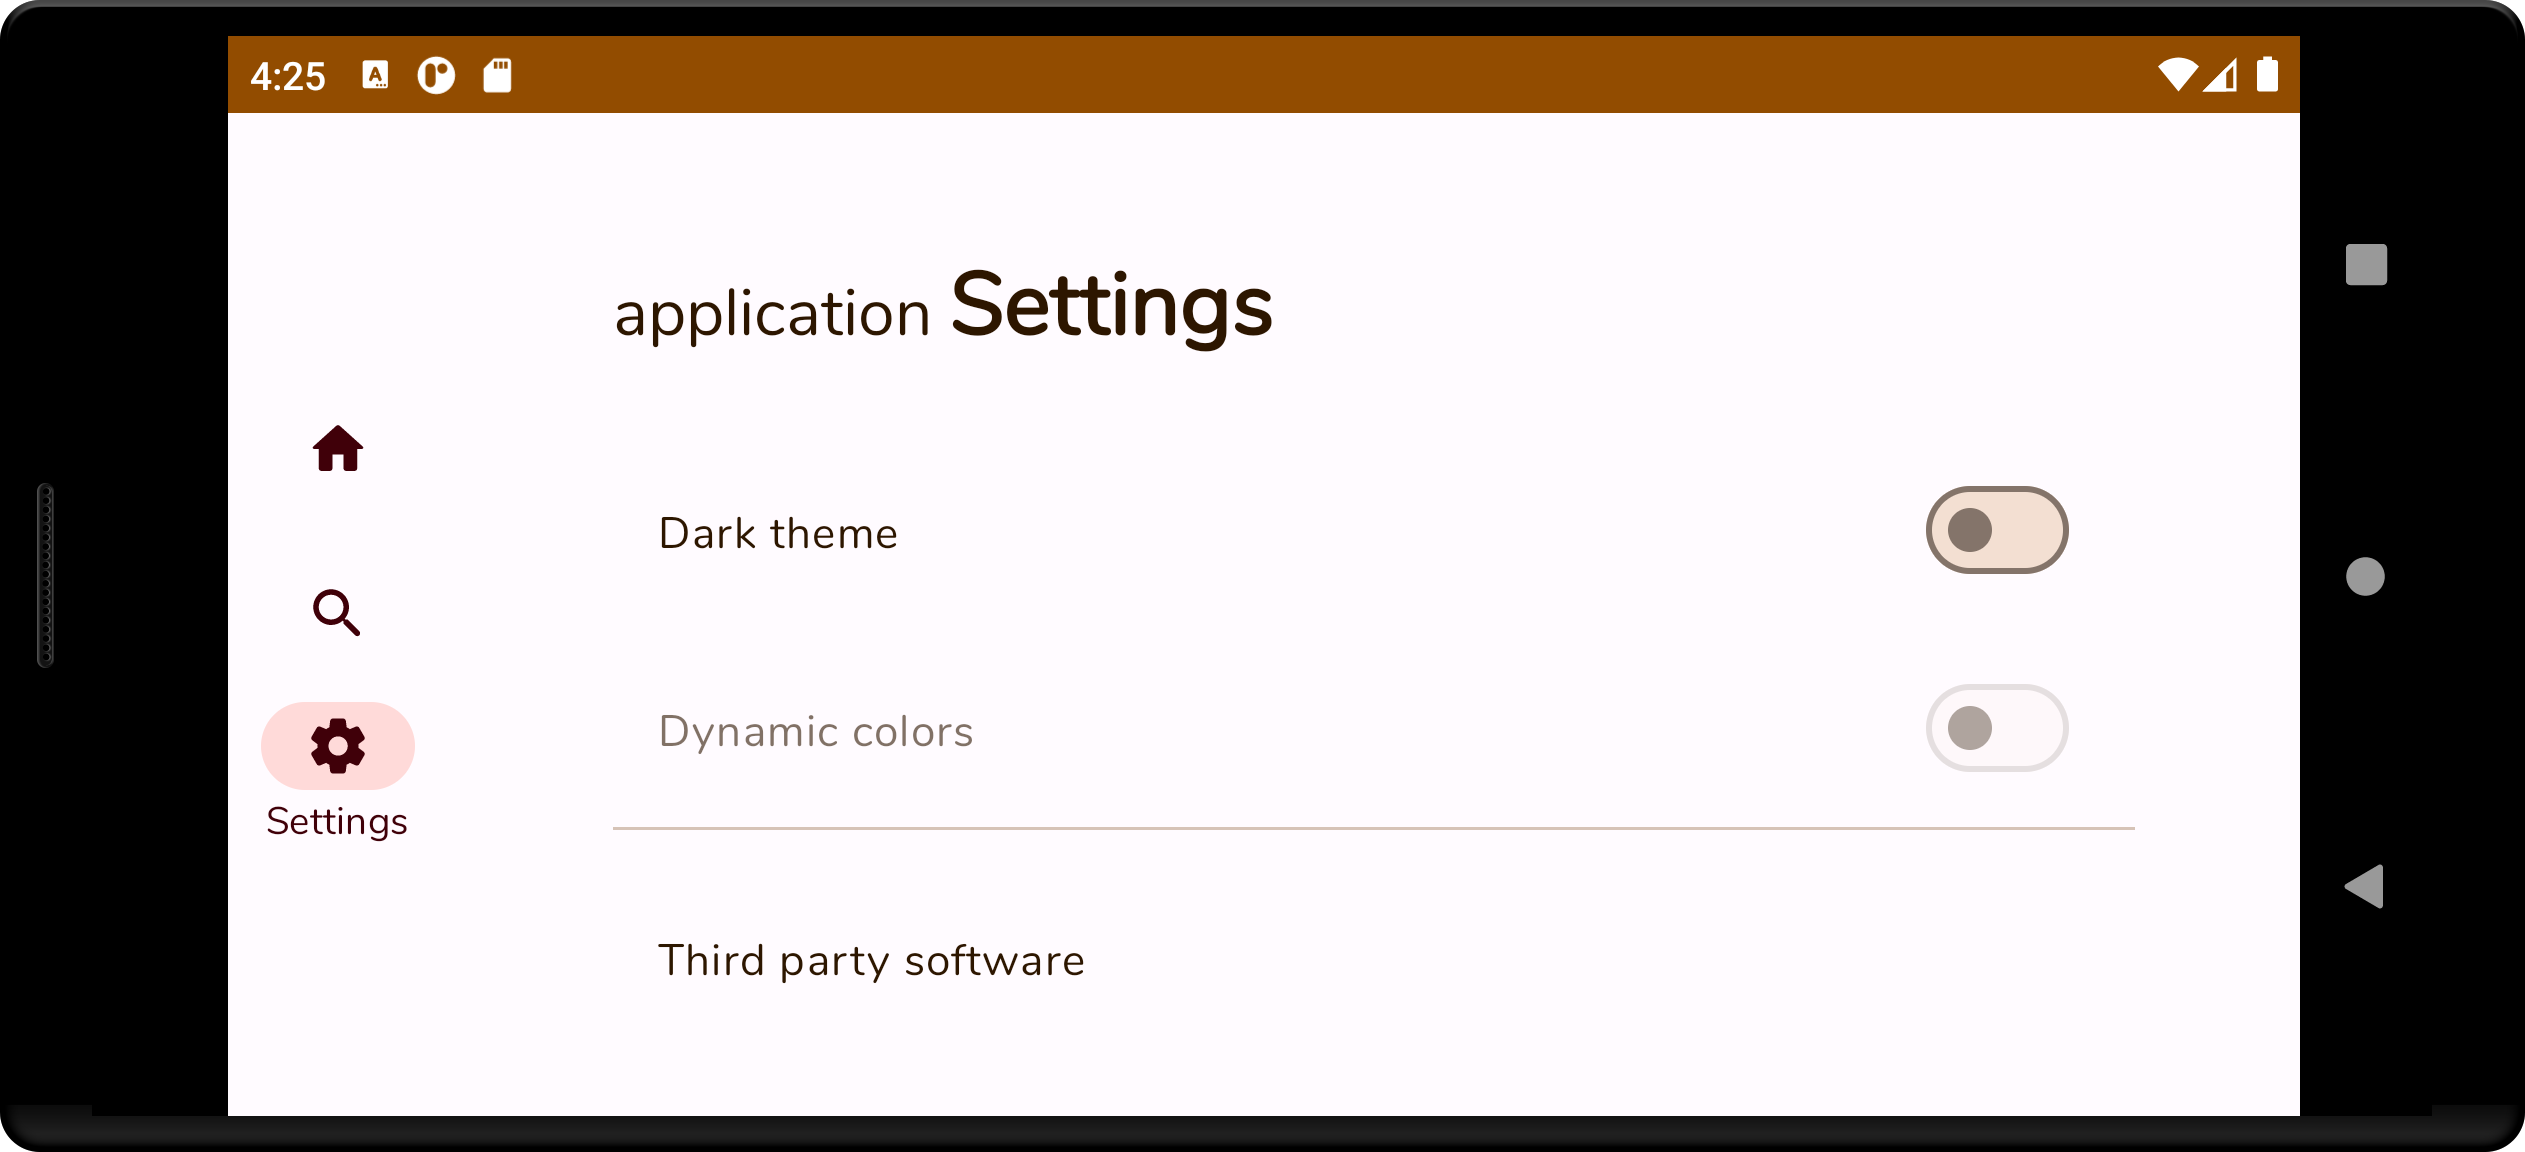
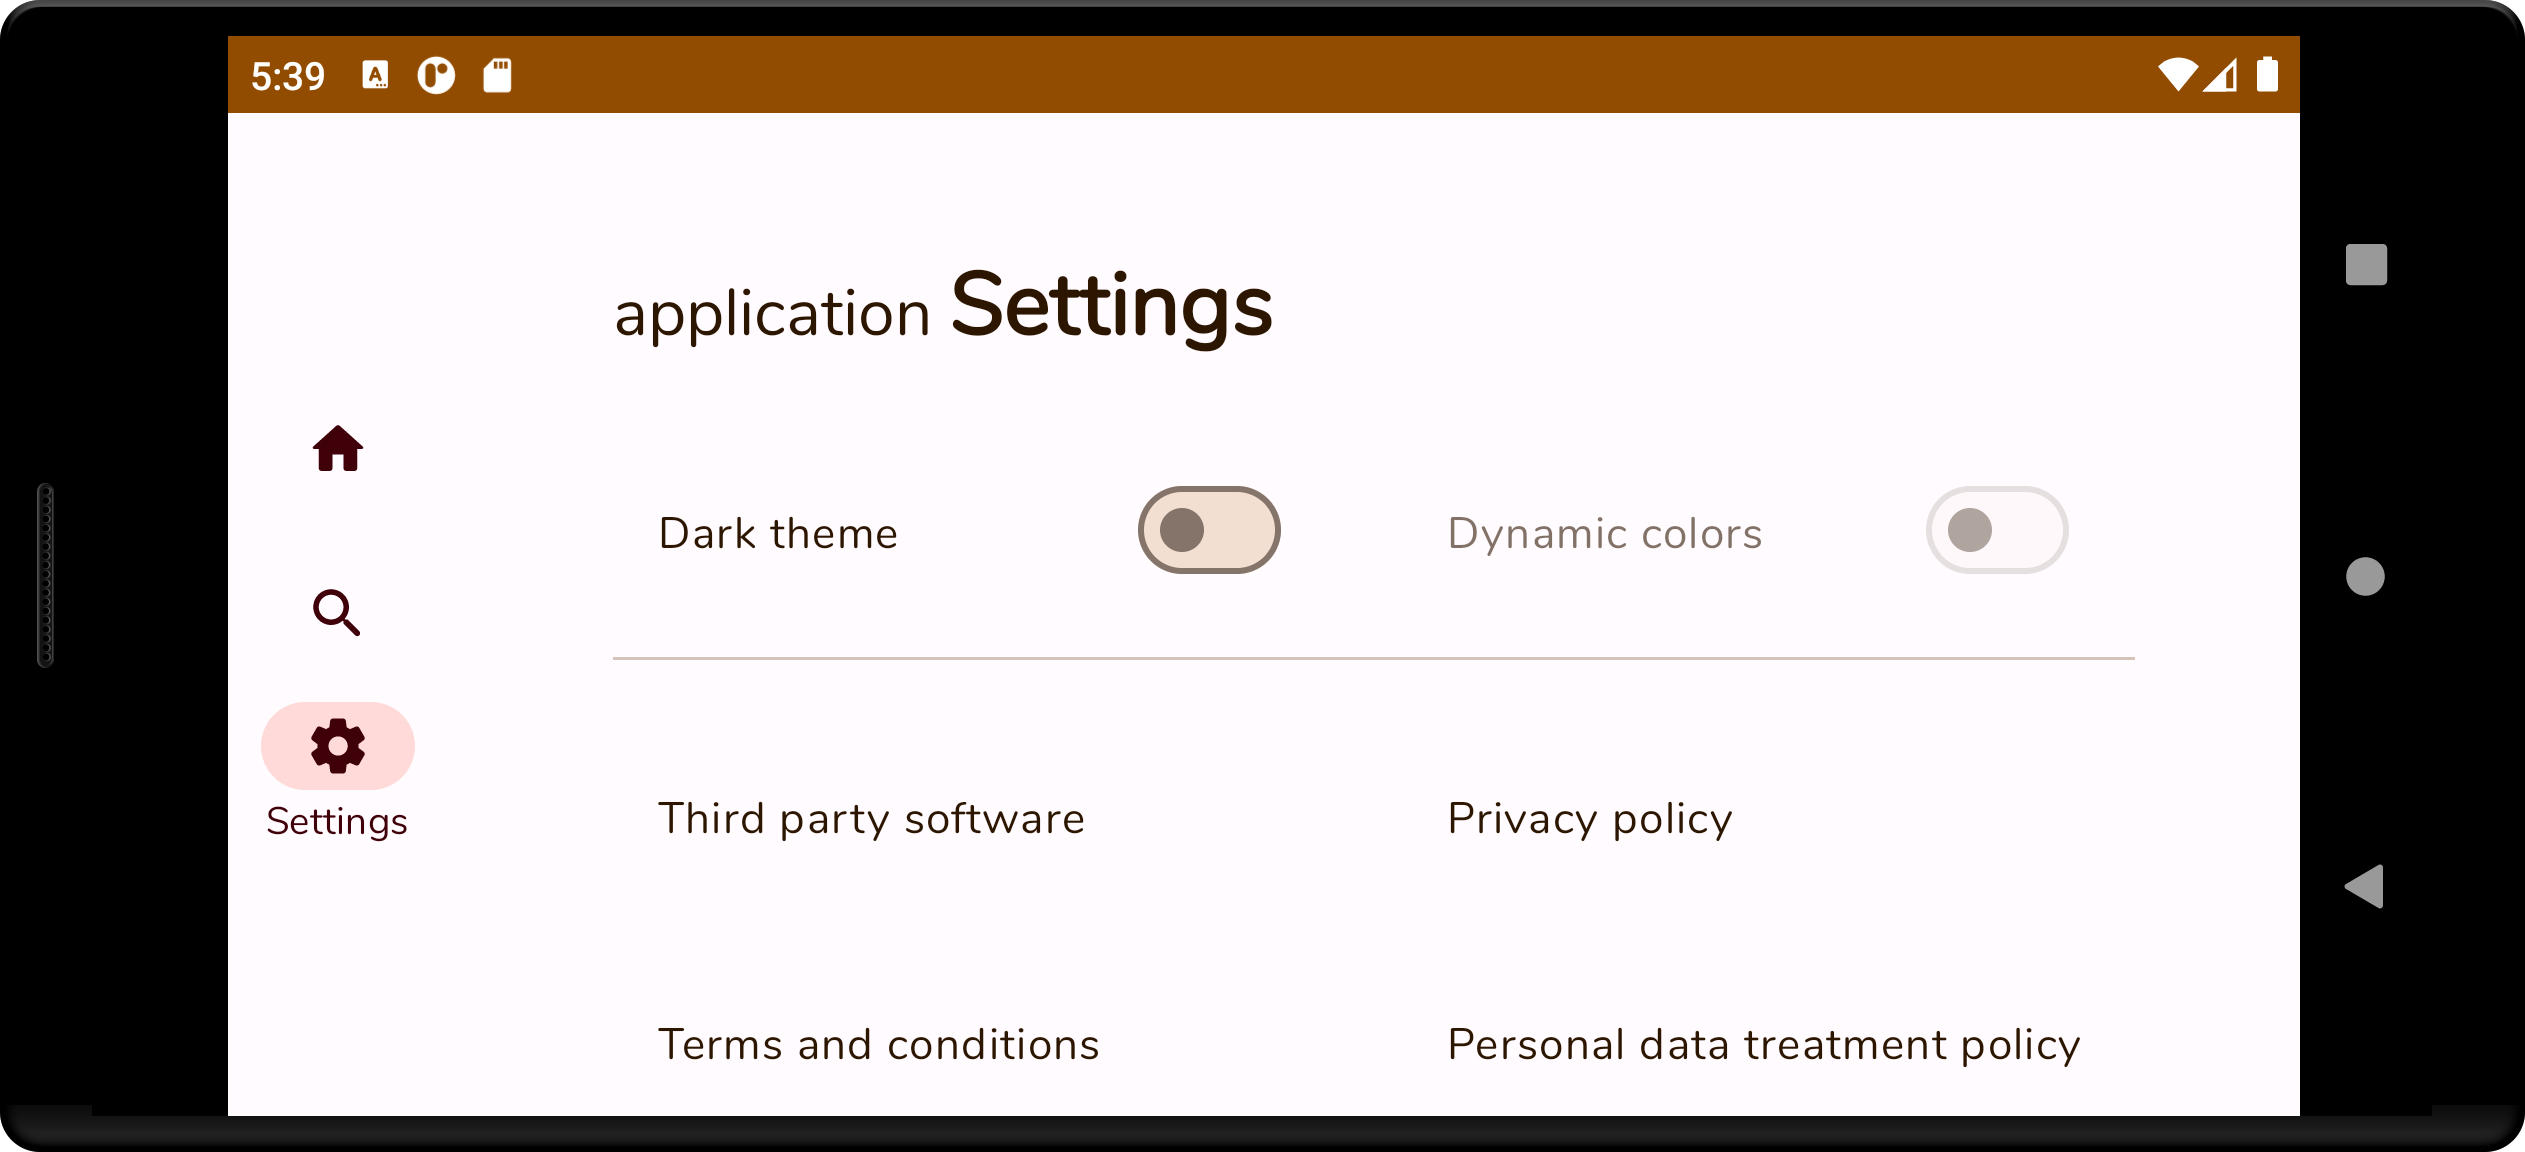
feat: adjusted settings screen title to be fixed, and list for better usage in phone landscape

diff --git a/apps/mobile_app/src/main/kotlin/dev/marlonlom/demos/ajv_cappa/catalog/settings/CatalogSettingsScreen.kt b/apps/mobile_app/src/main/kotlin/dev/marlonlom/demos/ajv_cappa/catalog/settings/CatalogSettingsScreen.kt
@@ -21,17 +21,22 @@
 
 package dev.marlonlom.demos.ajv_cappa.catalog.settings
 
+import androidx.compose.foundation.layout.Arrangement
 import androidx.compose.foundation.layout.Column
 import androidx.compose.foundation.layout.fillMaxWidth
 import androidx.compose.foundation.layout.padding
-import androidx.compose.foundation.rememberScrollState
-import androidx.compose.foundation.verticalScroll
+import androidx.compose.foundation.lazy.grid.GridCells
+import androidx.compose.foundation.lazy.grid.GridItemSpan
+import androidx.compose.foundation.lazy.grid.LazyGridItemSpanScope
+import androidx.compose.foundation.lazy.grid.LazyVerticalGrid
 import androidx.compose.material3.Divider
 import androidx.compose.material3.windowsizeclass.WindowSizeClass
+import androidx.compose.material3.windowsizeclass.WindowWidthSizeClass
 import androidx.compose.runtime.Composable
 import androidx.compose.ui.Modifier
 import androidx.compose.ui.unit.Dp
 import androidx.compose.ui.unit.dp
+import dev.marlonlom.demos.ajv_cappa.ui.main.AppScaffoldUtil
 
 @Composable
 fun CatalogSettingsScreen(
@@ -40,22 +45,62 @@ fun CatalogSettingsScreen(
   routeParams: CatalogSettingsRouteParams,
   modifier: Modifier = Modifier
 ) {
+  val gridColumnsCount = when {
+    AppScaffoldUtil.isMobileLandscape(windowSizeClass) -> 4
+    windowSizeClass.widthSizeClass == WindowWidthSizeClass.Medium -> 3
+    else -> 2
+  }
+
+  val span: (LazyGridItemSpanScope.() -> GridItemSpan) =
+    {
+      GridItemSpan(
+        when {
+          AppScaffoldUtil.isMobileLandscape(windowSizeClass) -> 2
+          AppScaffoldUtil.isTabletLandscape(windowSizeClass) -> 4
+          else -> maxCurrentLineSpan
+        }
+      )
+    }
+
   Column(
     modifier = modifier
       .fillMaxWidth()
       .padding(horizontal = columnPaddingHorizontal)
-      .verticalScroll(rememberScrollState())
   ) {
     SettingsTitleText(windowSizeClass = windowSizeClass)
-    DarkThemeSettingSwitch(routeParams)
-    DynamicColorsSettingSwitch(routeParams)
-    Divider(modifier = Modifier.padding(bottom = 10.dp))
-    ThirdPartySoftwareSettingMenuLink(routeParams)
-    PrivacyPolicySettingMenuLink(routeParams)
-    TermsConditionsSettingMenuLink(routeParams)
-    PersonalDataPolicySettingMenuLink(routeParams)
-    Divider(modifier = Modifier.padding(bottom = 10.dp))
-    AppVersionSettingsMenuLink(routeParams)
+    LazyVerticalGrid(
+      columns = GridCells.Fixed(gridColumnsCount),
+      horizontalArrangement = Arrangement.spacedBy(20.dp),
+      verticalArrangement = Arrangement.spacedBy(10.dp)
+    ) {
+      item(span = span) {
+        DarkThemeSettingSwitch(routeParams)
+      }
+      item(span = span) {
+        DynamicColorsSettingSwitch(routeParams)
+      }
+      item(span = { GridItemSpan(maxCurrentLineSpan) }) {
+        Divider(modifier = Modifier.padding(bottom = 10.dp))
+      }
+      item(span = span) {
+        ThirdPartySoftwareSettingMenuLink(routeParams)
+      }
+      item(span = span) {
+        PrivacyPolicySettingMenuLink(routeParams)
+      }
+      item(span = span) {
+        TermsConditionsSettingMenuLink(routeParams)
+      }
+      item(span = span) {
+        PersonalDataPolicySettingMenuLink(routeParams)
+      }
+      item(span = { GridItemSpan(maxCurrentLineSpan) }) {
+        Divider(modifier = Modifier.padding(bottom = 10.dp))
+      }
+      item(span = span) {
+        AppVersionSettingsMenuLink(routeParams)
+      }
+    }
   }
 }
 
